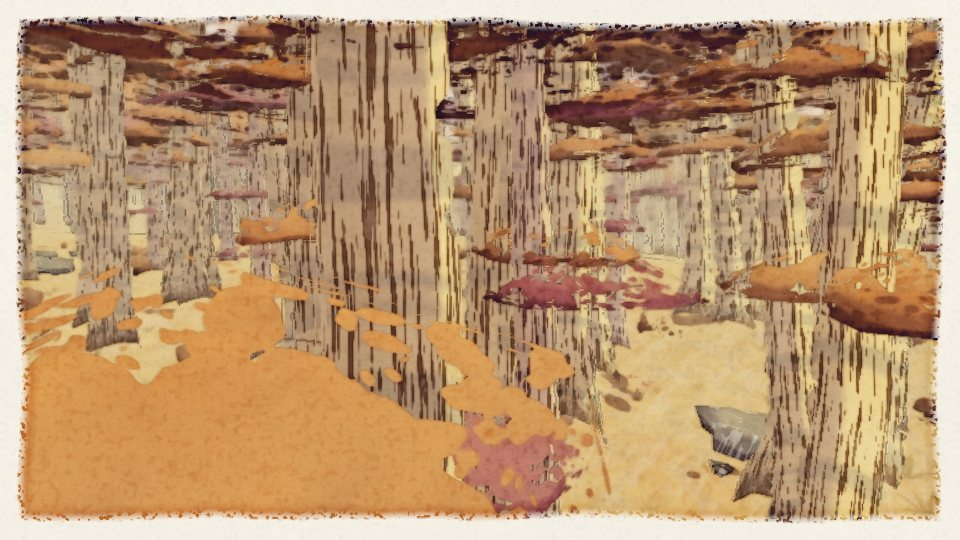
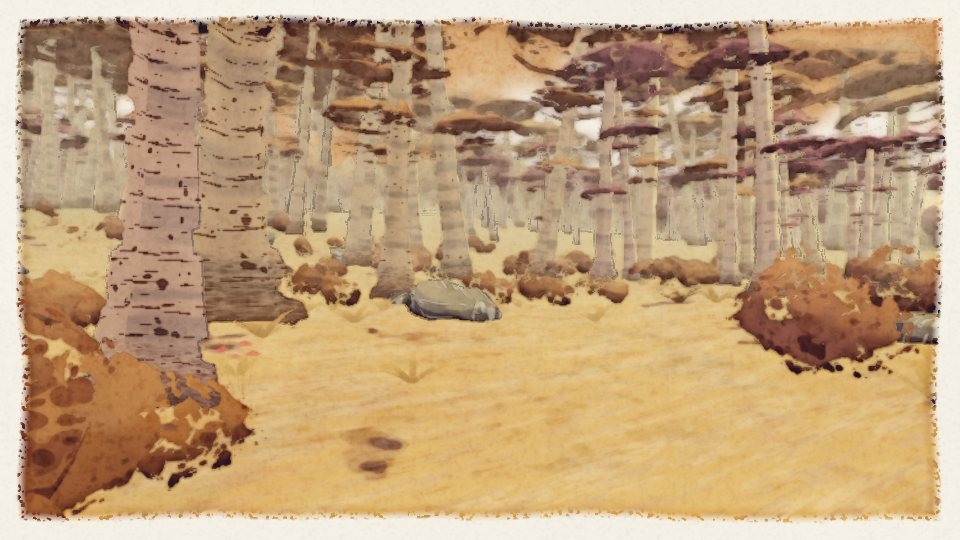
[painter] M2 first pass: all eight planets with 4+ biomes, liquids, kits, orbit views, evidence and per-planet cost numbers; notes

diff --git a/src/art/gallery.js b/src/art/gallery.js
@@ -98,6 +98,8 @@ function gotoBiome(biomeId, preset) {
   if (!biomeId || here.biomeId === biomeId) spot = spawn; else spot = world.findBiome(bodyId, biomeId) || spawn;
   applyPreset(preset || 'stream', spot.unitDir);
   if (preset === 'stream' || !preset) aimAlongStream();
+  if (preset === 'vista') aimVista(1.7);
+  if (preset === 'shore') { aimAlongStream(); state.yaw += 1.0; }
 }
 
 // Stand on the bank and look along the water: scan for the direction with the most water.
@@ -132,6 +134,31 @@ function aimAlongStream() {
     if (score > bscore) { bscore = score; byaw = ang; }
   }
   state.yaw = byaw + 0.10; state.pitch = -0.07;
+}
+
+// Stand somewhere low, dry and gentle near the spot and look toward the highest ground in
+// sight: a painter's choice of where to set the easel.
+function aimVista(eye) {
+  const R = BODIES[bodyId].radius;
+  const base = state.pos.clone().normalize();
+  frame(base);
+  const e0 = _e.clone(), n0 = _n.clone();
+  const pt = (ang, r) => base.clone().multiplyScalar(R).addScaledVector(e0, Math.sin(ang) * r).addScaledVector(n0, Math.cos(ang) * r).normalize();
+  let best = null, bestC = 1e9, hi = null, hiH = -1e9;
+  for (let a = 0; a < 20; a++) for (let r = 0; r <= 320; r += 40) {
+    const p = pt(a / 20 * Math.PI * 2, r), s = world.sampleSurface(bodyId, p);
+    if (s.radius > hiH) { hiH = s.radius; hi = { a: a / 20 * Math.PI * 2, r }; }
+    if (s.isLiquid) continue;
+    const c = (s.radius - R) * 0.02 + s.slope * 30 + r * 0.004 + (s.canopyHeight > 0 ? 3 : 0);
+    if (c < bestC) { bestC = c; best = { p, s }; }
+  }
+  if (!best) return;
+  state.pos.copy(best.p).multiplyScalar(best.s.radius + eye);
+  frame(best.p);
+  // yaw toward the highest point (in the new local frame)
+  const target = pt(hi.a, Math.max(hi.r, 60)).multiplyScalar(hiH).sub(state.pos);
+  state.yaw = Math.atan2(target.dot(_e), target.dot(_n)) + 0.25;
+  state.pitch = 0.02;
 }
 
 function applyTime() { world.setTime(bodyId, state.time); $('time').value = state.time; $('timev').textContent = state.time; }

diff --git a/src/world/surface.js b/src/world/surface.js
@@ -281,7 +281,7 @@ class Surface {
       const n = A.fbm(x * f - 9.0, y * f + 2.0, z * f + 14.0, 4, 2.0, 0.5);
       let hh = n * 70 - 9;
       if (hh > 1.5) hh += smoothstep(1.5, 8, hh) * 24 + C.n3(x * R / 40, y * R / 40, z * R / 40) * 2.2 * smoothstep(8, 20, hh);
-      h = hh + C.n3(x * R / 9, y * R / 9 + 2.0, z * R / 9) * 0.25 + (C.n3(x * R / 37 + 4.0, y * R / 37, z * R / 37) * 2.6 + C.n3(x * R / 11 - 2.0, y * R / 11, z * R / 11 + 6.0) * 0.9) * (1 - smoothstep(3, 16, Math.abs(hh)));
+      h = hh + C.n3(x * R / 9, y * R / 9 + 2.0, z * R / 9) * 0.25 + (C.n3(x * R / 37 + 4.0, y * R / 37, z * R / 37) * 2.6 + C.n3(x * R / 11 - 2.0, y * R / 11, z * R / 11 + 6.0) * 0.9 + C.n3(x * R / 3.7 + 8.0, y * R / 3.7, z * R / 3.7) * 0.4) * (1 - smoothstep(3, 16, Math.abs(hh)));
       t = clamp((h + 2) / 34, 0, 1); dry = 0.25 + 0.5 * t; wet = h < 1 ? 0.6 : 0.2;
       lq = this.sea == null ? 0 : this.sea;
       grow = bi.tallWet ? (1 - smoothstep(-14, -3, h)) * smoothstep(-34, -20, h) * 1.0 + smoothstep(-3, 0, h) * 0 : smoothstep(3, 9, h);
@@ -328,7 +328,7 @@ class Surface {
       const f = R / 520, amp = T.amp || 150;
       const n = A.fbm(x * f + 5.0, y * f - 7.0, z * f + 2.0, 3, 2.0, 0.5);
       const isl = smoothstep(-0.02, 0.26, n);
-      h = -46 + isl * amp + n * 36 + C.n3(x * R / 18, y * R / 18, z * R / 18) * 0.6 + (C.n3(x * R / 37 + 4.0, y * R / 37, z * R / 37) * 3.2 + C.n3(x * R / 9 - 2.0, y * R / 9, z * R / 9 + 6.0) * 1.1) * (1 - smoothstep(4, 22, Math.abs(-46 + isl * amp + n * 36)));
+      h = -46 + isl * amp + n * 36 + C.n3(x * R / 18, y * R / 18, z * R / 18) * 0.6 + (C.n3(x * R / 37 + 4.0, y * R / 37, z * R / 37) * 3.2 + C.n3(x * R / 9 - 2.0, y * R / 9, z * R / 9 + 6.0) * 1.1 + C.n3(x * R / 3.7 + 8.0, y * R / 3.7, z * R / 3.7) * 0.45) * (1 - smoothstep(4, 22, Math.abs(-46 + isl * amp + n * 36)));
       t = isl; dry = 0.3; wet = 0.35;
       lq = this.sea == null ? 0 : this.sea;
       grow = smoothstep(6, 16, h);

diff --git a/src/data/looks.js b/src/data/looks.js
@@ -252,7 +252,7 @@ export const LOOKS = {
       B('storm_wall', 'Storm-Wall Cliffs', 'ridged', ['burntSienna', 'alizarin', 'rawUmber', 'neutralTint', 'cadOrange'], 'lemonYellow', ['burntSienna', 'alizarin', 'rawUmber'],
         { t: { amp: 620, wl: 1300, strata: 0.7 }, mist: 0.7, tall: [1, 1], tallD: 0.14, tallMix: 1, small: { rock: 0.08 }, phys: { ground: 'rock' } }),
       B('hanging_gardens', 'Hanging Gardens', 'terraced', ['sapGreen', 'viridian', 'quinGold', 'rawSienna', 'cobaltViolet'], 'roseMadder', ['sapGreen', 'viridian', 'quinGold'],
-        { t: { amp: 150, steps: 6 }, tall: [0, 0], tallD: 0.6, tallMix: 1, small: { fern: 0.3, flower: 0.14, bush: 0.08, grass: 0.3 } }),
+        { t: { amp: 150, steps: 6 }, tall: [0, 0], tallD: 0.42, tallMix: 1, small: { fern: 0.2, flower: 0.12, bush: 0.05, grass: 0.3 } }),
       B('lightning_plains', 'Lightning Plains', 'flat', ['neutralTint', 'paynesGrey', 'yellowOchre', 'cobaltViolet', 'indigo'], 'lemonYellow', ['neutralTint', 'yellowOchre', 'paynesGrey'],
         { t: { amp: 12, crack: 0.5, dusk: 0.3 }, tall: [2, 2], tallD: 0.16, tallMix: 1, small: { rock: 0.04, shard: 0.05, grass: 0.1 } }),
     ],

diff --git a/docs/notes/painter.md b/docs/notes/painter.md
@@ -4,27 +4,61 @@ Branch: `cosmos` (shared with PILOT and PHYSICS, one working tree). Commits: `to
 
 ## Status
 
-INTEGRATION: ready (commit `c9e19bd`; render, world and art are all usable)
+INTEGRATION: ready (latest `[painter]` commit; render, world and art are all usable on all ten bodies)
 
-M1 (Painter's half): the temperate forest is built and the three MUST FIX of lead review 1 are
-answered below with numbers and frames. Waiting on the lead's re-review.
+M1 is closed (lead review 2). **M2 (Painter's half) first pass is in**: every planet has 4+
+distinct biomes with its own palette, sky, liquids and flora or rock kits, and an orbit view.
+It is a first pass: forms and palettes differ clearly from planet to planet, but most biomes
+have had one look each, not the critique-and-repaint rounds the forest had.
 
-- `src/render/index.js`: `createPainter(renderer)`, `RENDERER_OPTIONS`, `makeWashMaterial`,
-  `setRenderScale`, `setQuality`, `setMood`. Works.
-- `src/world/index.js`: `createWorld(scene)`: ten bodies (earth detailed; the other nine are
-  placeholders with 4 biomes each), `world.sun`, `update`, `sampleSurface` (with `liquidRadius`,
-  `canopyHeight`, `canopy01`), `sampleObstacles`, `getSpawn`, `getVistas`, `setTime`,
-  `setVistaFound`, `busy`, `setBuildBudget`, `getLighting`, `setPhysics` (stores it; not read yet).
-- Earth's temperate forest: birch and pine in clumps, undergrowth (grass, ferns, reeds, bushes,
-  poppies, stones), a brook with mirrored reflections, dappled light, day / dawn / dusk / night.
-- `src/art/models.js`: explorer and ship are still **placeholder shapes** (contract-correct
-  sizes, `seat`, `hatch`, `animate`; a windscreen hoop and cowl are visible from the seat).
-- `gallery.html`: free-fly camera, pickers, URL parameters (below).
+What exists on every body (all data-driven from `src/data/looks.js`):
+- terrain recipes (`rolling`, `flat`, `dunes`, `ridged`, `canyon` / `mesa` / `terraced` with
+  strata, `crater` / `basin`, `islands`, `coast`, `riverbed`, `sinkholes`, `alpine`, `wetland`,
+  `forest`), cracked ground, frost, dusk tint;
+- liquids with their own look per biome, blended per vertex: water, a sea of cloud (jupiter,
+  saturn), lava (venus), acid pools (venus), glowing teal (uranus), ultramarine sea (neptune);
+- flora on the tiered system: tall kits `broadleaf`, `conifer`, `fungus`, `crystal` (and thin
+  crystal reeds), `spire`, `kelp`, `wave`; small kits grass, fern, reed, bush, rock, flower,
+  shard. `sampleObstacles`, `canopy01`, `canopyHeight`, `getSpawn`, `getVistas` work everywhere;
+- sky keys per body (`mkSky`), per-biome mist, Saturn's rings as real geometry (they cross the
+  sky from the ground), a cloud deck seen from above that thins as you descend, a limb that
+  fades to haze, and a softer space wash (indigo and violet with salt blooms and spattered stars);
+- PHYSICS' flora field is wired (below).
 
-Not done / rough: autumn woodland and the four other earth biomes are placeholders; the other
-nine bodies are noise spheres with palettes; space is a first-pass wash (the grain reads as
-pepper there, lead finding 8); painted UI theme not started; no weather; flora sway is still my
-two-sine placeholder (PHYSICS' field goes in during M2/M3).
+Frame cost, my probe (gallery 480x270, quality 1, the densest biome I could find per body;
+budget 600 k triangles / 350 draw calls):
+
+| body | view | triangles | draw calls |
+| --- | --- | --- | --- |
+| earth | temperate forest, `cam=trees` | 519 k | 287 |
+| earth | autumn woodland | 502 k | 251 |
+| mars | dry riverbeds (red-leaf grove) | 476 k | 228 |
+| mars | rust canyons, 30 m up | 327 k | 161 |
+| saturn | crystal reed fields | 387 k | 162 |
+| saturn | gold islands (spawn) | 359 k | 206 |
+| mercury | crystal gardens | 453 k | 312 |
+| venus | fungal tower forest | 536 k | 206 |
+| jupiter | hanging gardens | 510 k | 162 |
+| uranus | frozen-wave forest | 355 k | 145 |
+| neptune | kelp forests | 567 k | 169 |
+
+`sampleSurface`: 4.5 to 8.5 microseconds a call on every body (Node, 20 000 calls each).
+Not measured in M2: quality 0 and 2 on the new planets, `world.update` worst frame on the new
+planets, anything on a real GPU. Mercury's crystal gardens and Jupiter's gardens were measured
+before I thinned them further; the numbers above are after.
+
+Evidence (`docs/shots/painter/`, 960x540, quality 1, `ui=0&t=0`): `<body>-orbit.jpg`
+(`cam=orbit`) and `<body>-<biome>.jpg` for mars, saturn, mercury, venus, jupiter, uranus,
+neptune and earth's five other biomes (41 files). Camera per biome: `cam=vista` (a low, dry,
+gentle spot near the biome's first site, looking at the highest ground), `cam=stream` for
+biomes with pools or rivers, `cam=shore` for seas. I looked at every frame as a contact sheet,
+not each at full size.
+
+Known weak (blunt): jupiter and saturn sky-islands are bare lumps in a pale sea; uranus teal
+sinkholes and venus lava and acid frames do not show the liquid (the camera did not find it);
+earth's alpine meadow is grey; desert bushes are forest green (undergrowth colours are per
+body, not per biome); moon and pluto are untouched placeholders; night and space granulation
+are softer but not finished; explorer and ship are still toys; no weather, no painted UI.
 
 ## Answers to lead review 1 (at `19f72ce`)
 
@@ -86,6 +120,19 @@ SHOULD FIX, short answers:
 - 9 (build hitches): see MUST FIX 1.
 - 10 (`sampleSurface` cost): unchanged except one fuller sample for `canopy01`/`canopyHeight`
   on bodies that have flora; about 6 microseconds a call in Node here.
+
+## Answers to lead review 2 (SHOULD FIX, none blocking)
+
+- 4 (`world.update` worst frames): unchanged since review 2. Terrain is a resumable job and the
+  slice is 0.8 x the budget, so what remains is one flora cell assembly or one re-tier landing
+  on top of a patch step. Not fixed.
+- 5 (shade as darkened local colour): the ground's shade is now the glaze plus a violet-blue
+  shift, with feathered edges where the wash "was wet" (commit `1e1801e`). Trunks and crowns
+  unchanged.
+- 6 (foreground one wash), 7 (far trunks in a line): not addressed in M2.
+- 9 (`sampleObstacles` size): the radius is clamped to 60 m and everything inside it is
+  returned, unsorted (trees always; rocks only when the radius is 30 m or less and the rock is
+  larger than a step). It is not "the nearest N": sort by distance yourself if you need that.
 
 ## How to use my modules
 
@@ -186,10 +233,18 @@ quality 1 unless noted):
 - PHYSICS 3: your ground table matches what I paint for earth (`temperate_forest: 'litter'` is
   right: grass over leaf and needle litter, mud at the brook). No `phys` overrides needed yet;
   I will add `phys: { ground }` in `looks.js` when M2 biomes differ.
-- PHYSICS wiring: the sway is one function, `pcSway` in `PROP_VERT`
-  (`src/render/materials.js`), called on one line; that is where `pcPhysBend` /
-  `pcPhysDisplace` go. I will apply your chunk to grass, ferns, reeds, flowers, bushes and the
-  near tree tier only; mid and far trees take the low-resolution wind. Planned with M2.
+- PHYSICS wiring: **done** (`1e1801e`). `world.setPhysics(physics)`; each `world.update` copies
+  `physics.fields.flora` (three float textures, re-uploaded on `version` / `pushVersion`) and
+  its uniforms. Undergrowth (grass, ferns, reeds, flowers) uses the full `pcPhysBend` (wind,
+  waves, push, flatten); bushes and the near and mid tree tiers use `pcPhysBendLite`; far trees
+  keep my small sway. `uStiff`: 0 undergrowth, 0.35 bushes, 1 trees (0.1 kelp). `uPlantHeight`
+  per mesh. In the gallery: `?physics=1`. Checked: field live (wind 5 m/s, bend up to 1 rad at
+  the spawn), plants move between frames, no console errors. Not checked: parting around the
+  explorer, downwash (nothing pushes in the gallery). I import `../physics/flora.glsl.js`.
+- PILOT (markers): leave them as DOM rings for now; a painted version belongs with the UI
+  theme in M3 (hook would be `painter.setMarks([{ id, x, y, r, label, sub, kind }])`).
+- PILOT (flat dry arrival): `getSpawn(bodyId)` searches the first site for a dry, gentle spot
+  on every body (tested for liquid and slope on earth only; on others by one frame each).
 
 ## Ideas and critique
 
@@ -209,6 +264,7 @@ quality 1 unless noted):
 
 ## Tests
 
-- `node --test src/world/*.test.mjs`: 12 tests of pure logic (noise, cube-sphere, biome
+- `node --test src/world/*.test.mjs`: 12 tests of pure logic (all ten bodies for the ceiling, vistas and obstacles)
+- (was) 12 tests of pure logic (noise, cube-sphere, biome
   coverage, `sampleSurface` purity, spawn, liquid, vistas, patch edges, mesh / sample agreement,
   terrain ceiling, flora determinism, obstacles).
